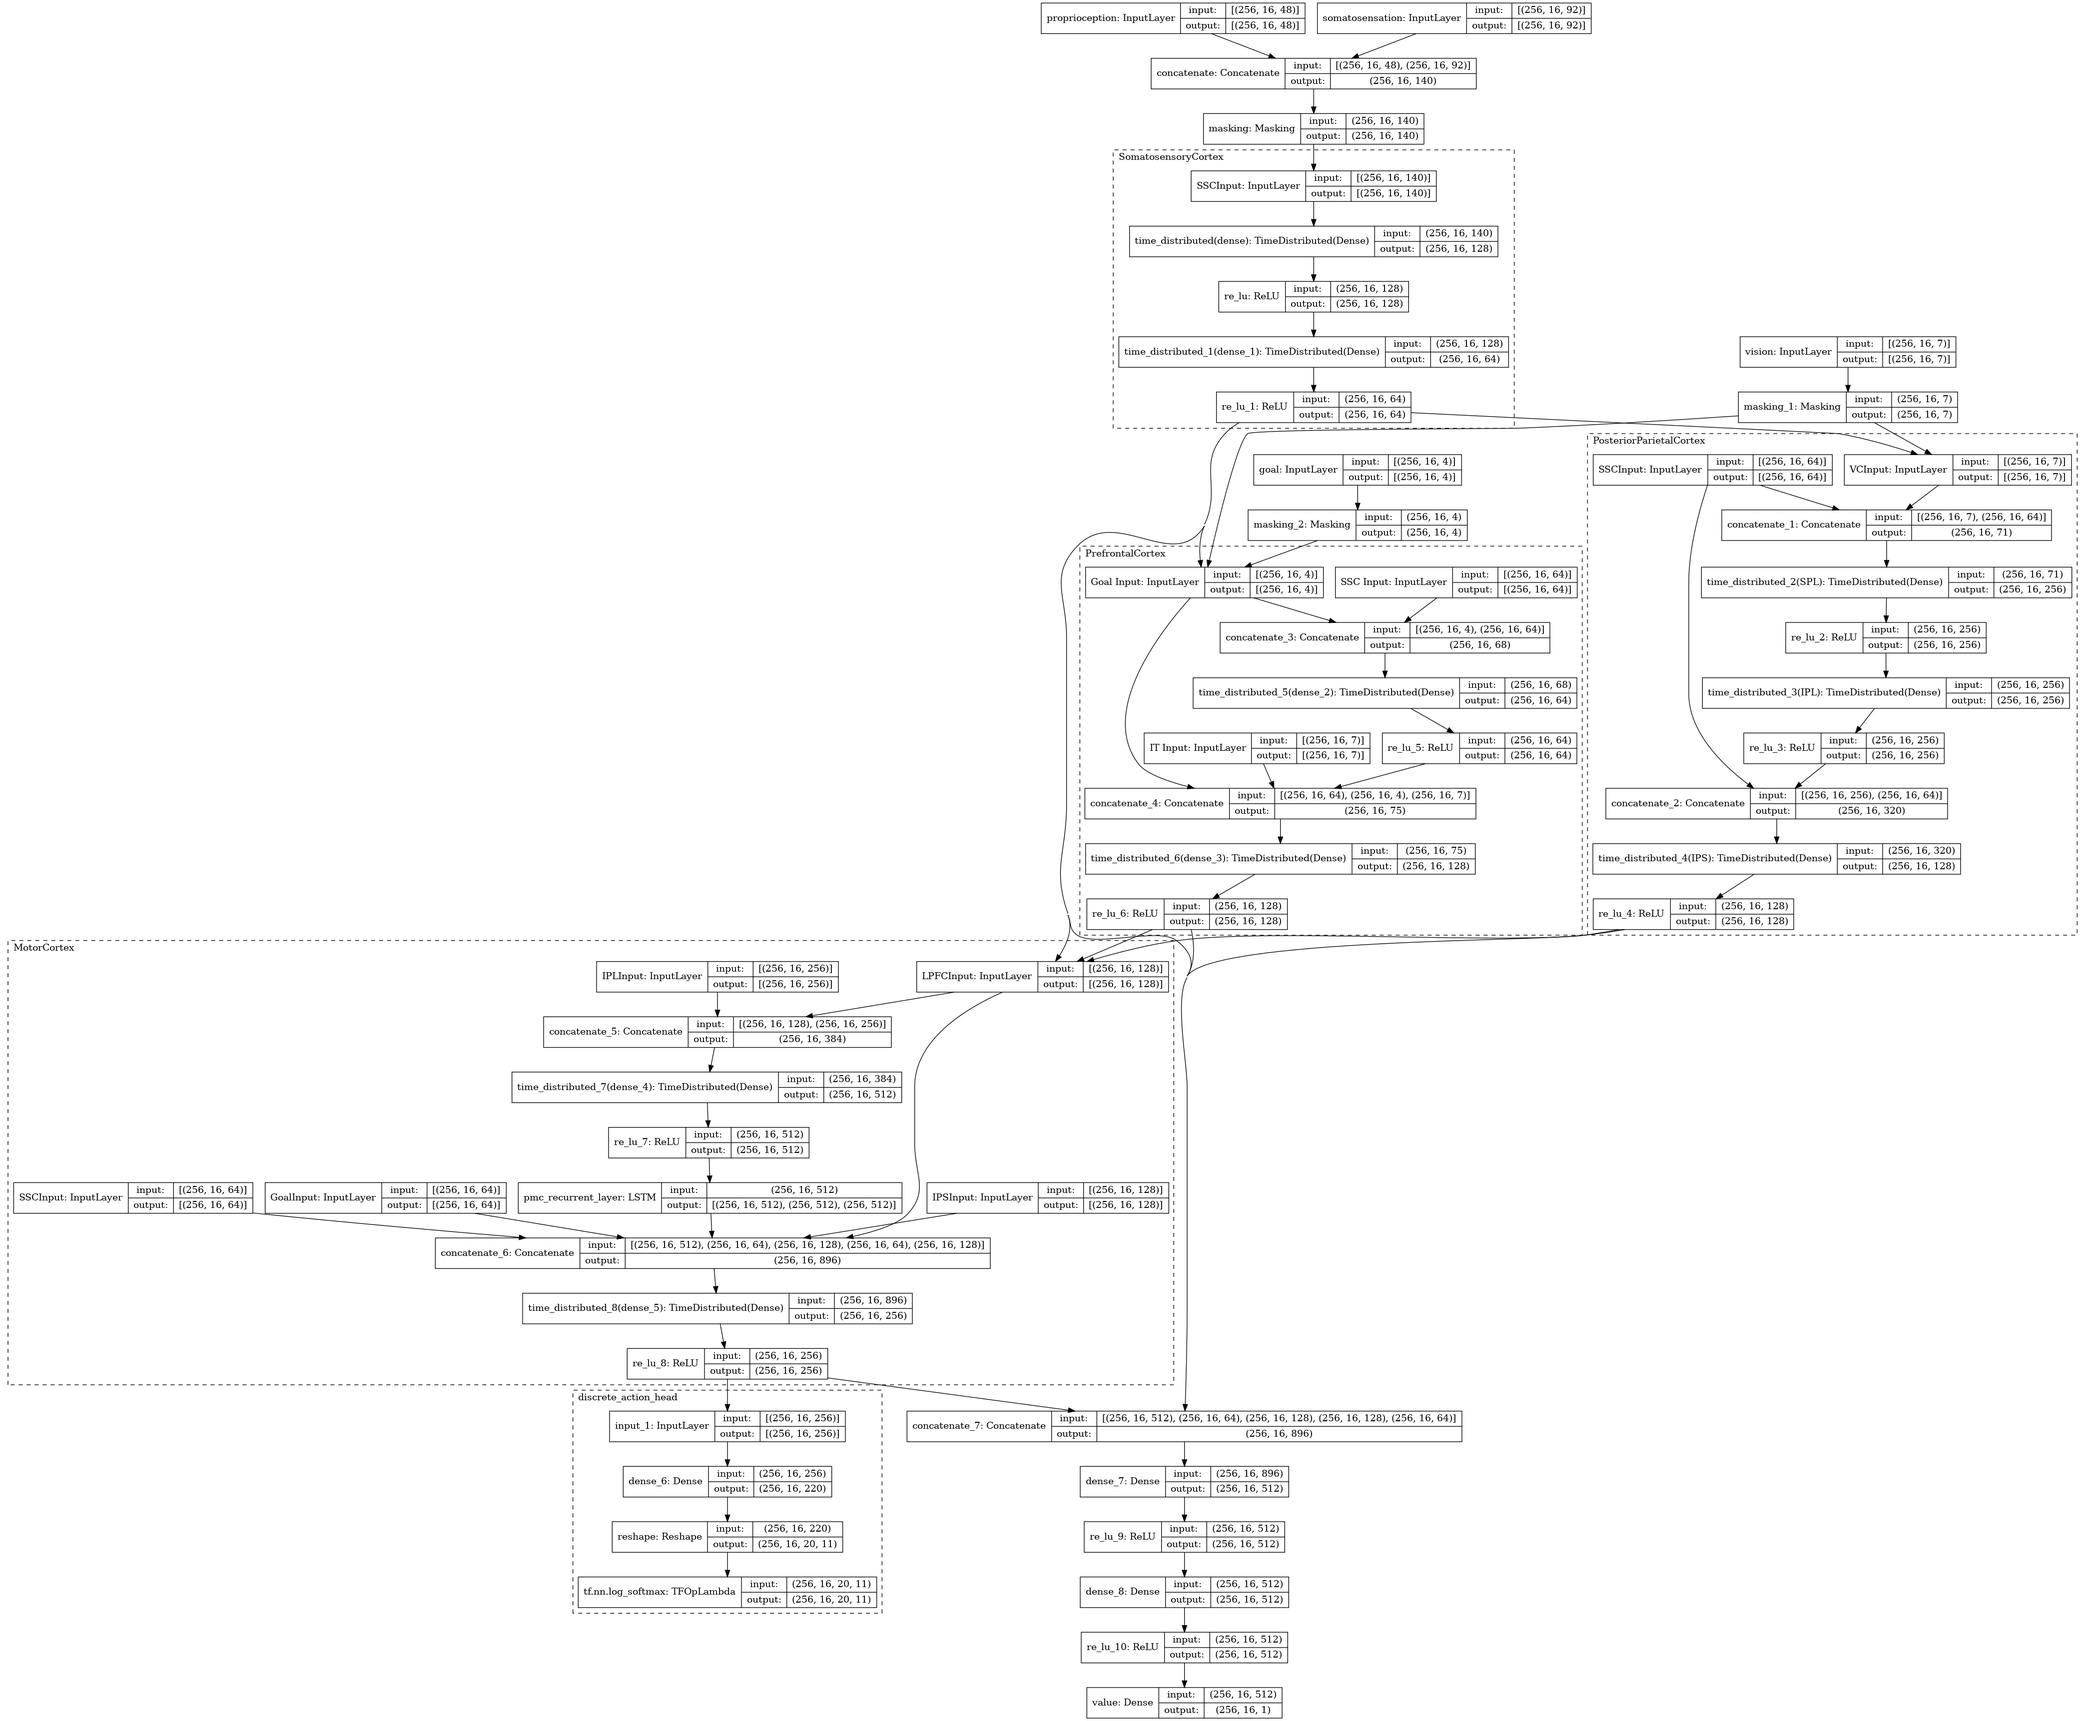
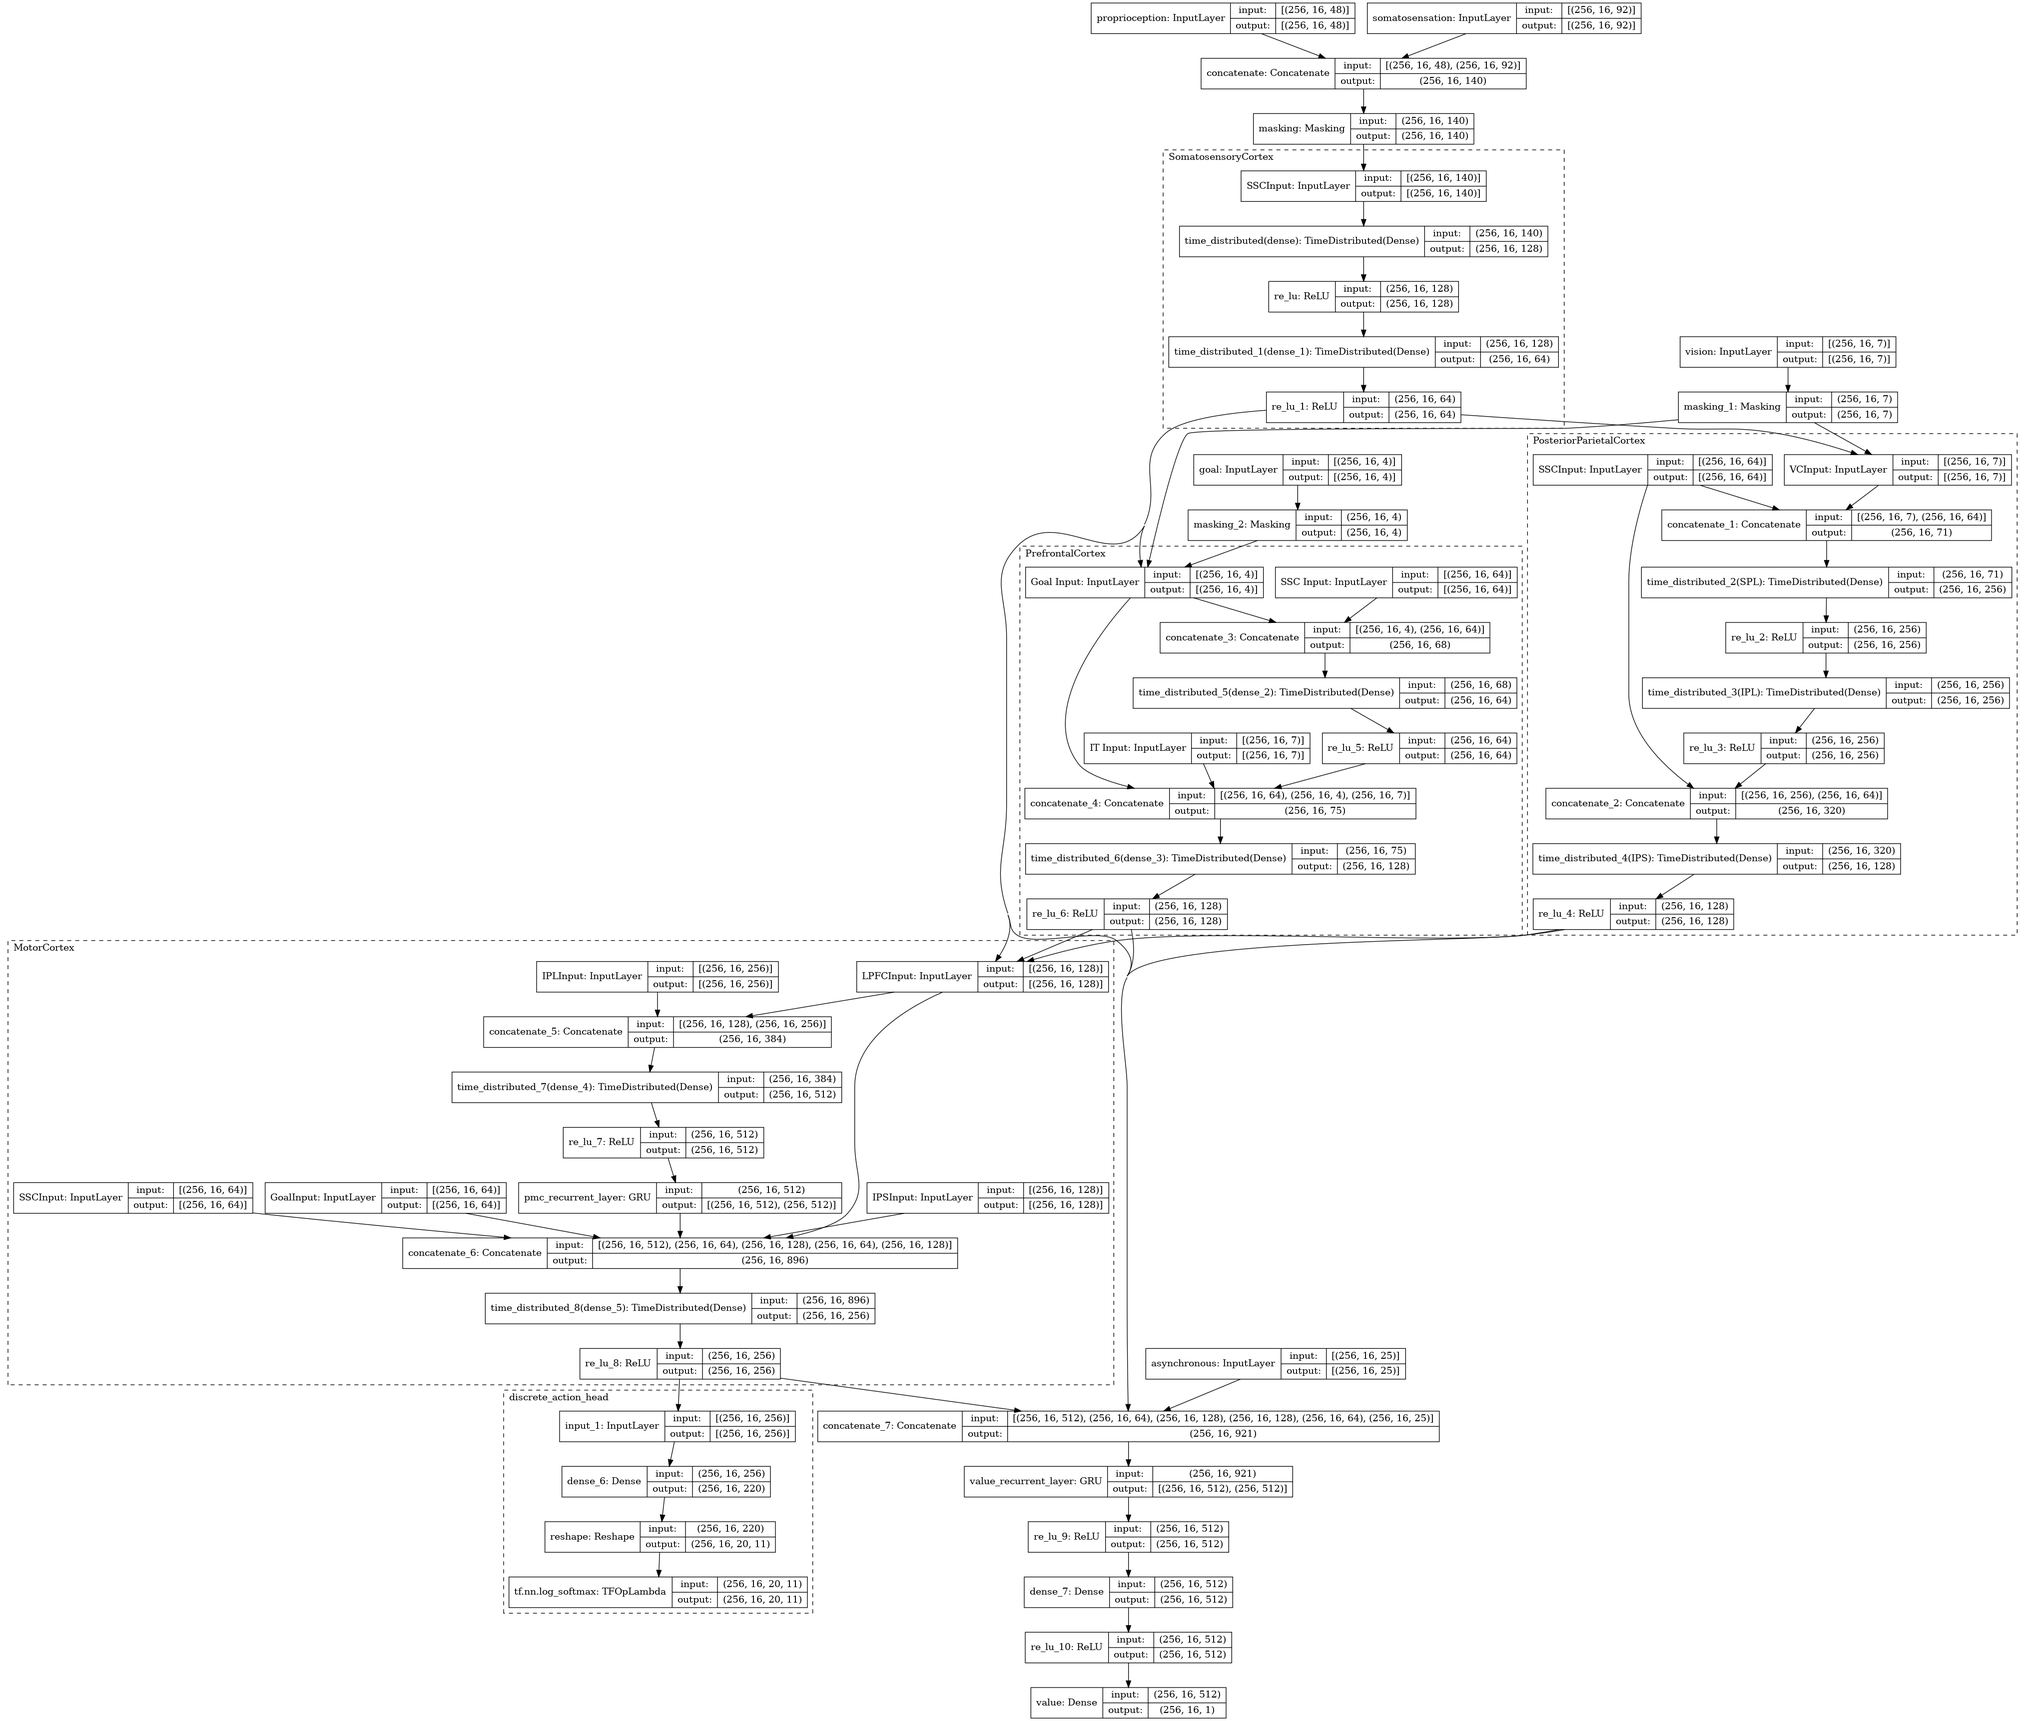
Value Head now with its own recurrent layer.

diff --git a/models/shadow.py b/models/shadow.py
@@ -63,7 +63,7 @@ def build_pfc_module(batch_and_sequence_shape, goal_input_shape, ssc_input_shape
 
 
 def build_mc_module(batch_and_sequence_shape, mcc_input_shape, lpfc_input_shape, ipl_input_shape,
-                    ips_input_shape, ssc_input_shape):
+                    ips_input_shape, ssc_input_shape, rnn_class=tf.keras.layers.LSTM):
     mcc_input = tf.keras.Input(batch_shape=batch_and_sequence_shape + mcc_input_shape, name="GoalInput")
     lpfc_input = tf.keras.Input(batch_shape=batch_and_sequence_shape + lpfc_input_shape, name="LPFCInput")
     ipl_input = tf.keras.Input(batch_shape=batch_and_sequence_shape + ipl_input_shape, name="IPLInput")
@@ -73,12 +73,12 @@ def build_mc_module(batch_and_sequence_shape, mcc_input_shape, lpfc_input_shape,
     pmc_input = tf.keras.layers.concatenate([lpfc_input, ipl_input])
     pmc = TD(tf.keras.layers.Dense(512))(pmc_input)
     pmc = tf.keras.layers.ReLU()(pmc)
-    pmc, *_ = tf.keras.layers.LSTM(512,
-                                   stateful=True,
-                                   return_sequences=True,
-                                   batch_size=batch_and_sequence_shape[0],
-                                   return_state=True,
-                                   name="pmc_recurrent_layer")(pmc)
+    pmc, *_ = rnn_class(512,
+                        stateful=True,
+                        return_sequences=True,
+                        batch_size=batch_and_sequence_shape[0],
+                        return_state=True,
+                        name="pmc_recurrent_layer")(pmc)
 
     m1_input = tf.keras.layers.concatenate([pmc, mcc_input, lpfc_input, ssc_input, ips_input])
     m1 = TD(tf.keras.layers.Dense(256))(m1_input)
@@ -132,7 +132,7 @@ def build_shadow_brain_base(env: gym.Env, distribution: BasePolicyDistribution, 
     mcc_out, lpfc_out = pfc([goal_masked, ssc_out, vision_masked])
 
     mc = build_mc_module((bs, sequence_length,), (mcc_out.shape[-1],), (lpfc_out.shape[-1],), (ipl_out.shape[-1],),
-                         (ips_out.shape[-1],), (ssc_out.shape[-1],))
+                         (ips_out.shape[-1],), (ssc_out.shape[-1],), rnn_class=rnn_choice)
     pmc_out, m1_out = mc([mcc_out, lpfc_out, ipl_out, ips_out, ssc_out])
 
     # policy head
@@ -141,12 +141,18 @@ def build_shadow_brain_base(env: gym.Env, distribution: BasePolicyDistribution, 
     # value head
     value_inputs = [pmc_out, mcc_out, ips_out, lpfc_out, ssc_out]
     if "asynchronous" in state_dimensionality.keys():
-        asynchronous = tf.keras.Input(batch_shape=(bs, sequence_length,) + state_dimensionality["asynchronous"], name="asynchronous")
+        asynchronous = tf.keras.Input(batch_shape=(bs, sequence_length,) + state_dimensionality["asynchronous"],
+                                      name="asynchronous")
         input_list.append(asynchronous)
         value_inputs.append(asynchronous)
 
     value_in = tf.keras.layers.concatenate(value_inputs)
-    value_out = tf.keras.layers.Dense(512)(value_in)
+    value_out, *_ = rnn_choice(512,
+                               stateful=True,
+                               return_sequences=True,
+                               batch_size=bs,
+                               return_state=True,
+                               name="value_recurrent_layer")(value_in)
     value_out = tf.keras.layers.ReLU()(value_out)
     value_out = tf.keras.layers.Dense(512)(value_out)
     value_out = tf.keras.layers.ReLU()(value_out)
@@ -180,19 +186,17 @@ if __name__ == "__main__":
     batch_size = 256
     sequence_length = 16
 
-    env = make_env("HumanoidManipulateBlockDiscrete-v0")
+    env = make_env("HumanoidManipulateBlockDiscreteAsynchronous-v0")
     _, _, joint = build_shadow_brain_base(env, MultiCategoricalPolicyDistribution(env), bs=batch_size, blind=True,
-                                          sequence_length=sequence_length)
+                                          sequence_length=sequence_length, model_type="gru")
     plot_model(joint, to_file=f"{joint.name}.png", expand_nested=True, show_shapes=True)
-    exit()
 
     optimizer: tf.keras.optimizers.Optimizer = tf.keras.optimizers.SGD()
 
     joint({
-        "vision": tf.random.normal((batch_size, sequence_length, VISION_WH, VISION_WH, 3)),
-        # "proprioception": tf.random.normal((batch_size, sequence_length, 48)),
+        "vision": tf.random.normal((batch_size, sequence_length, 7)),
+        "proprioception": tf.random.normal((batch_size, sequence_length, 48)),
         "somatosensation": tf.random.normal((batch_size, sequence_length, 92)),
-        "goal": tf.random.normal((batch_size, sequence_length, 15)),
+        "asynchronous": tf.random.normal((batch_size, sequence_length, 25)),
+        "goal": tf.random.normal((batch_size, sequence_length, 4)),
     })
-
-    joint.summary()
